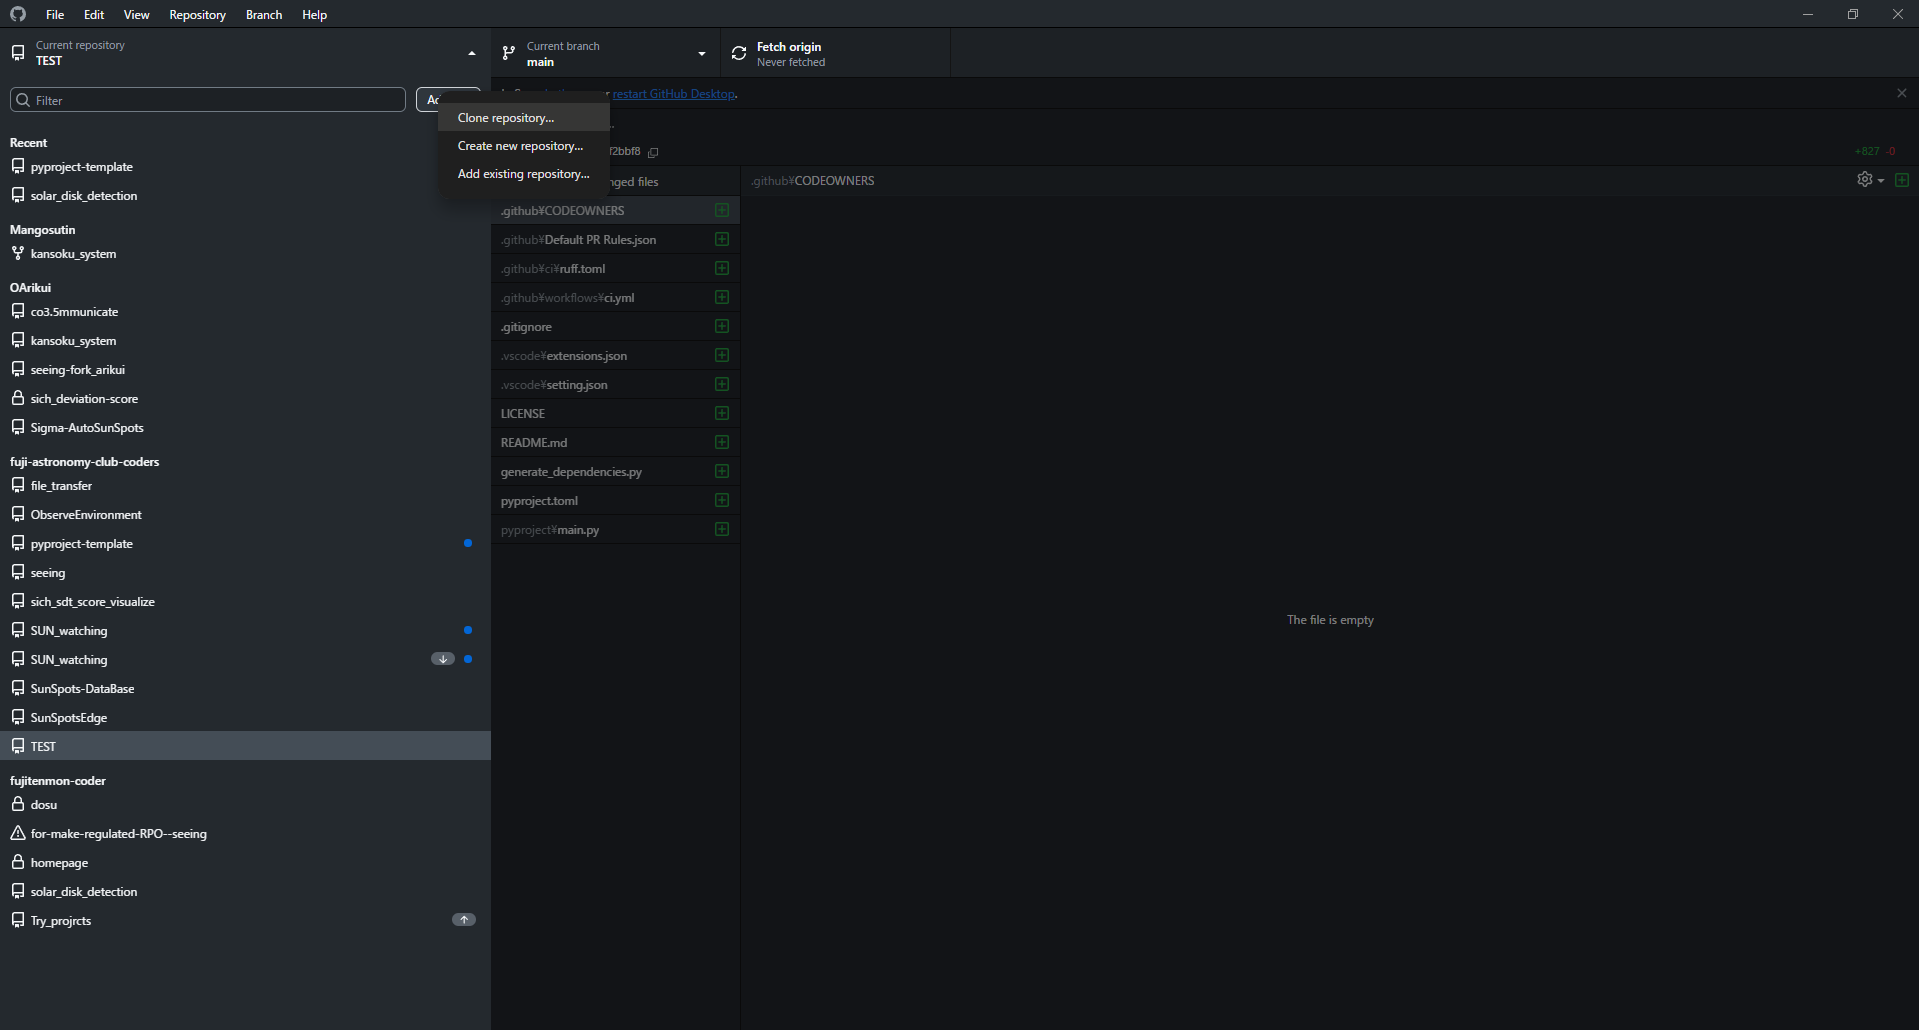
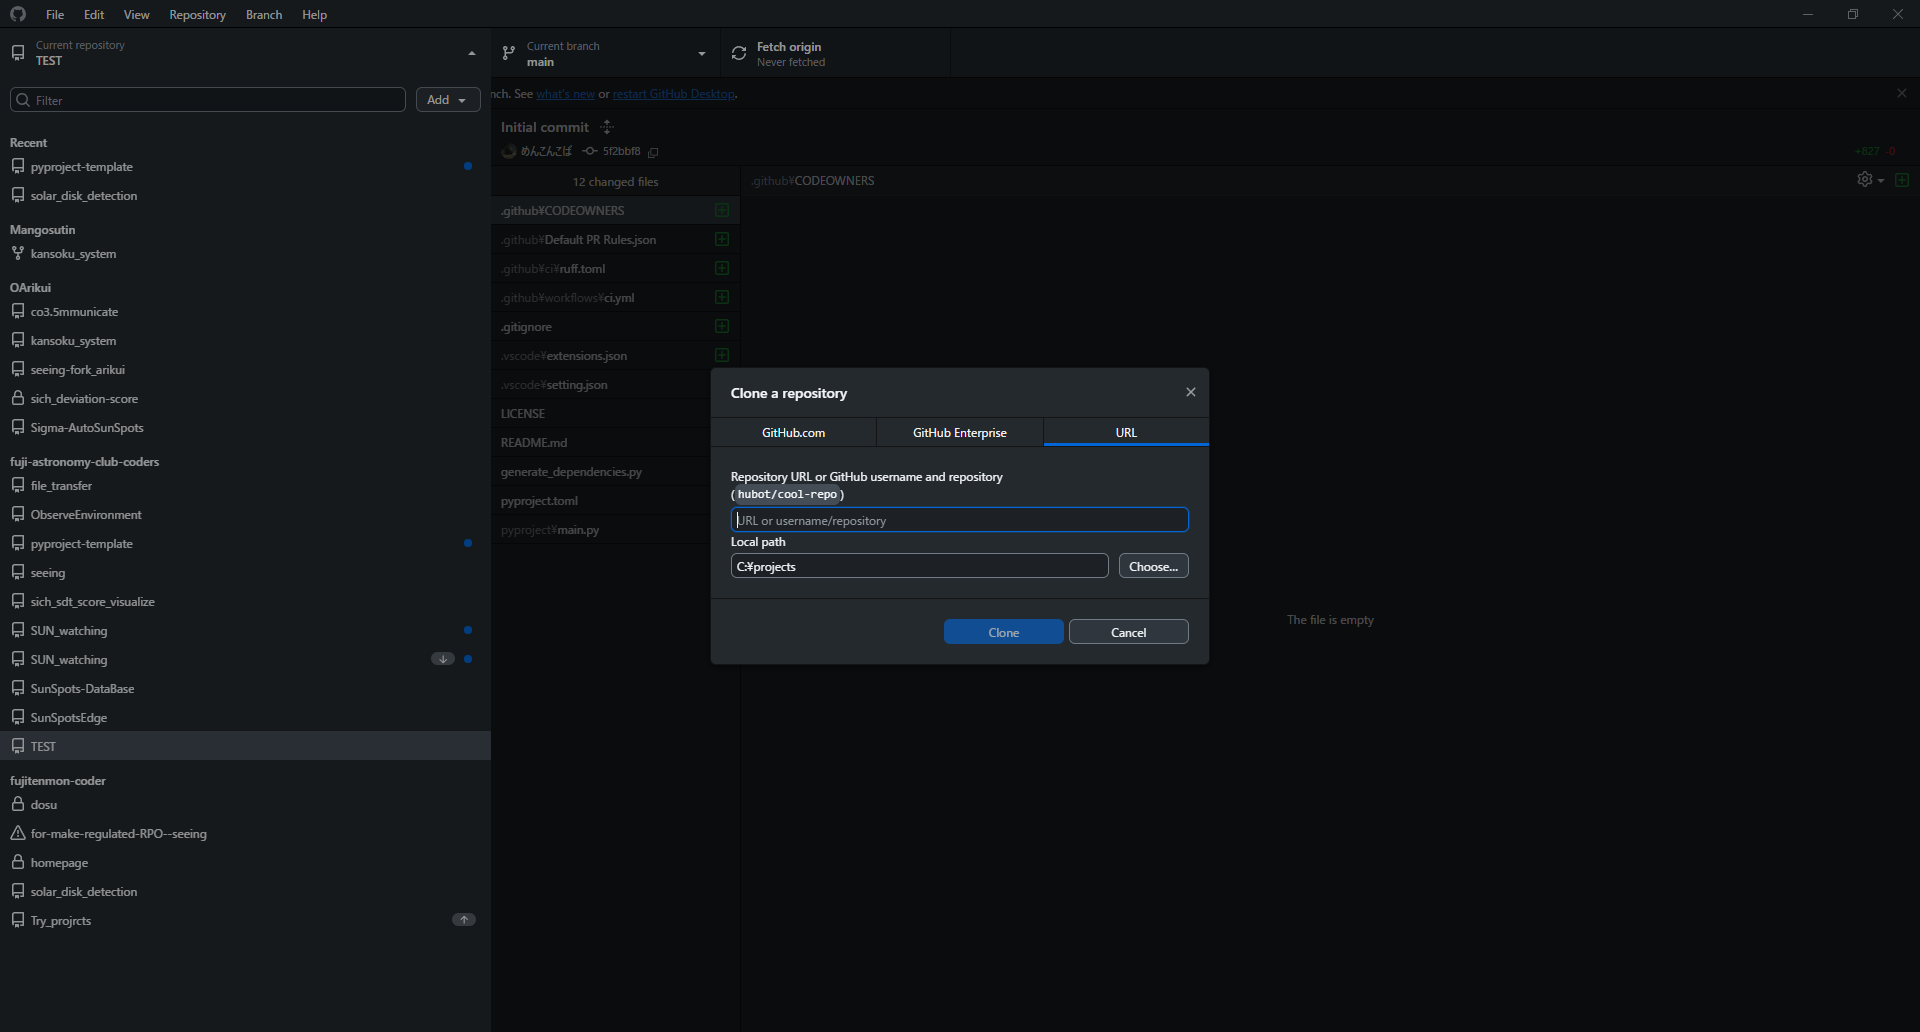
Update template docs and assets
Refresh the project setup guide and supporting image assets. This change renames the first asset to match the documentation, removes obsolete row-image files, updates screenshots used in the manual, and expands the instructions for repository creation, package setup, and ruleset configuration.

diff --git a/materials/manual.md b/materials/manual.md
@@ -1,14 +1,16 @@
 # Steps for using this template
 
+本説明では、便宜上新しいリポジトリ名を"TEST"としています
+
 ## 1. Create new repository
 
-![github pyproject-template home.There is a "use this template" button in the top right corner.](assets/image.png)
+<img src="./assets/image01.png" style="width: 50%;" alt="github pyproject-template home.There is a "use this template" button in the top right corner.">
 
 pyproject-templateのgithubページから、`Use this template`>`Create new repository`を選択。
 
 ## 2. New repository setting
 
-![alt text](assets/image2.png)
+<img src="./assets/image02.png" style="width: 50%;" alt="alt text">
 
 ### 2-1. Repository name を入力
 
@@ -35,11 +37,118 @@ pyproject-templateのgithubページから、`Use this template`>`Create new rep
 
 個人情報や流出してはいけない内容が含まれないかどうかを確認し、必要に応じて非公開に設定してください。
 
-## 3. Ruleset
+> [!NOTE]
+> 
+> プロジェクトの限られた機密ファイル(APIkeyなど)が存在する場合は、`.gitignore`に追加することでpushを避ける手段もあります。
 
-編集のルールを設定するためのルールセットを作製
+## 3. Build setting
 
-![alt text](assets/image3.png)
+### 3-1. Clone repository
+
+プロジェクトを立ち上げるにあたっての設定をするために、複数ファイルの編集等の操作が必要なため、クローンしてローカルで作業できるようにする。
+
+<img src="./assets/image03.png" style="width: 50%;" alt="alt text">
+
+1. github desktopサイドメニューから、`add`>`clone repository`をクリック
+
+<img title="" src="./assets/image04.png" alt="alt text" style="width: 50%">
+
+2. githubのリポジトリのリンクとクローン先のディレクトリを選択してクローンする。
+
+### 3-2. Edit ReadME
+
+- [ ] templateを作成する。
+
+### 3-3. Package directory setting
+
+package nameを考え、"pyproject"directoryをpackage nameにrenameしてpackage directoryを作成してください。
+
+package nameは小文字英数,ハイフンのみで作成しましょう。
+
+このdirectoryは例えば、ほかのプロジェクトに丸々コピーして使ったりする、プログラムの本体です。repository nameと同じでもいいですが、相対pathを使うときに区別がつかないのでより簡潔な1~3語程度のpackage nameを使いましょう。
+
+例:`weather-calibrated-global-monitor`(気象補正機能付き自動全球観測装置)
+
+| リポジトリ名                              | パッケージ名                                                                                 |
+| ----------------------------------- | -------------------------------------------------------------------------------------- |
+| *weather-calibrated-global-monitor* | *wc_global_monitor*   <br/>or *weather_cal_gm*<br/>or *atmoglobe* (Atmosphere + Globe) |
+
+> 
+> 
+> [!NOTE]
+> 
+> **相対pathを使う時に区別がつかないとは?**
+> 
+> もしpackage nameがリポジトリnameと同じだった場合、
+> 
+> package directoryのpathは`C://python/projects/TEST/TEST`になります。
+> 
+> - `C://python/projects/TEST/note.txt`
+> 
+> - `C://python/projects/TEST/TEST/note.txt`
+> 
+> というファイルの相対pathがいずれも
+> 
+> `TEST/note.txt`
+> 
+> になる場合があります。これでは区別がつきません。
+
+package directoryが作成できたら、次は`pyproject.toml`の編集です。
+
+### 3-4. Pyproject setting
+
+root directoryに`pyproject.toml`というファイルがあります。これはbasedpyrightやruffといったLSPの設定ファイルであると同時に、プロジェクトの環境要件やステータスを示す取扱説明書のようなものになります。
+
+#### 3-4-1. Project explain
+
+`[project]`セクションの`name`(L6)と`description`(L8)を編集します。
+
+1. `name`は、プロジェクト名なのでリポジトリ名と同じで大丈夫です。
+
+2. `description`は、プロジェクトの簡素な説明です。リポジトリのDescriptionと同じでもよいですし、新たに100~120字程度の説明を書いてもよいです。
+
+#### 3-4-2.  Tools package setting
+
+LSPにpackageの場所を教えるために`pyproject.toml`の各LSP項目にpackage nameを渡します。
+
+これから示す場所に、プレースホルダーとして`pyproject`というpackage nameをしていているので、設定したpackage nameに置換してください。
+
+1. `[tool.setuptools]`>`packages`(L23)
+
+2. `[tool.basedpyright]`>`include`(L66)
+
+## 4. Ruleset
+
+編集のルールを設定するためのルールセットを作成
+
+このテンプレートのルールセットは適用するとmain branchに直接pushができなくなるので、先にチュートリアルのファイルを削除しましょう。
+
+### 4-1. 不要ファイルの削除
+
+- `TEST/materials/manual.md`
+
+- `TEST/materials/assets/*.png`
+  
+  
+
+不要ファイルを削除したら、リポジトリのファイルはもう準備万端なので、commit message=`init`でコミットしましょう。
+
+この時、パッケージ名やリポジトリ名にアクロニム等の略称を使っている場合など、記録すべきことがあればdescription(コミットメッセージで2行改行後のテキスト)に記載しましょう。
+
+### 4-2. ルールセットの設定
+
+<img src="./assets/image05.png" style="width: 50%;" alt="alt text">
 
 `上部タブ`>`setting`から、`Rulesets`>`Rulesets`ページを開き、`New Ruleset`>`Import a ruleset`をクリックします。
+
+<img src="./assets/image06.png" style="width: 50%;" alt="alt text">
+
+エクスプローラビューが開いたら、`TEST\.gitgub\Default PR Rules.json`を選択し、決定します。
+
+<img src="./assets/image07.png" style="width: 50%;" alt="alt text">
+
+jsonファイルに保存されていた設定が読み込まれ、各項目に値が入力されるので、一番下の`Create`ボタンでルールセットを作成してしまいましょう。
+
+
+
 
